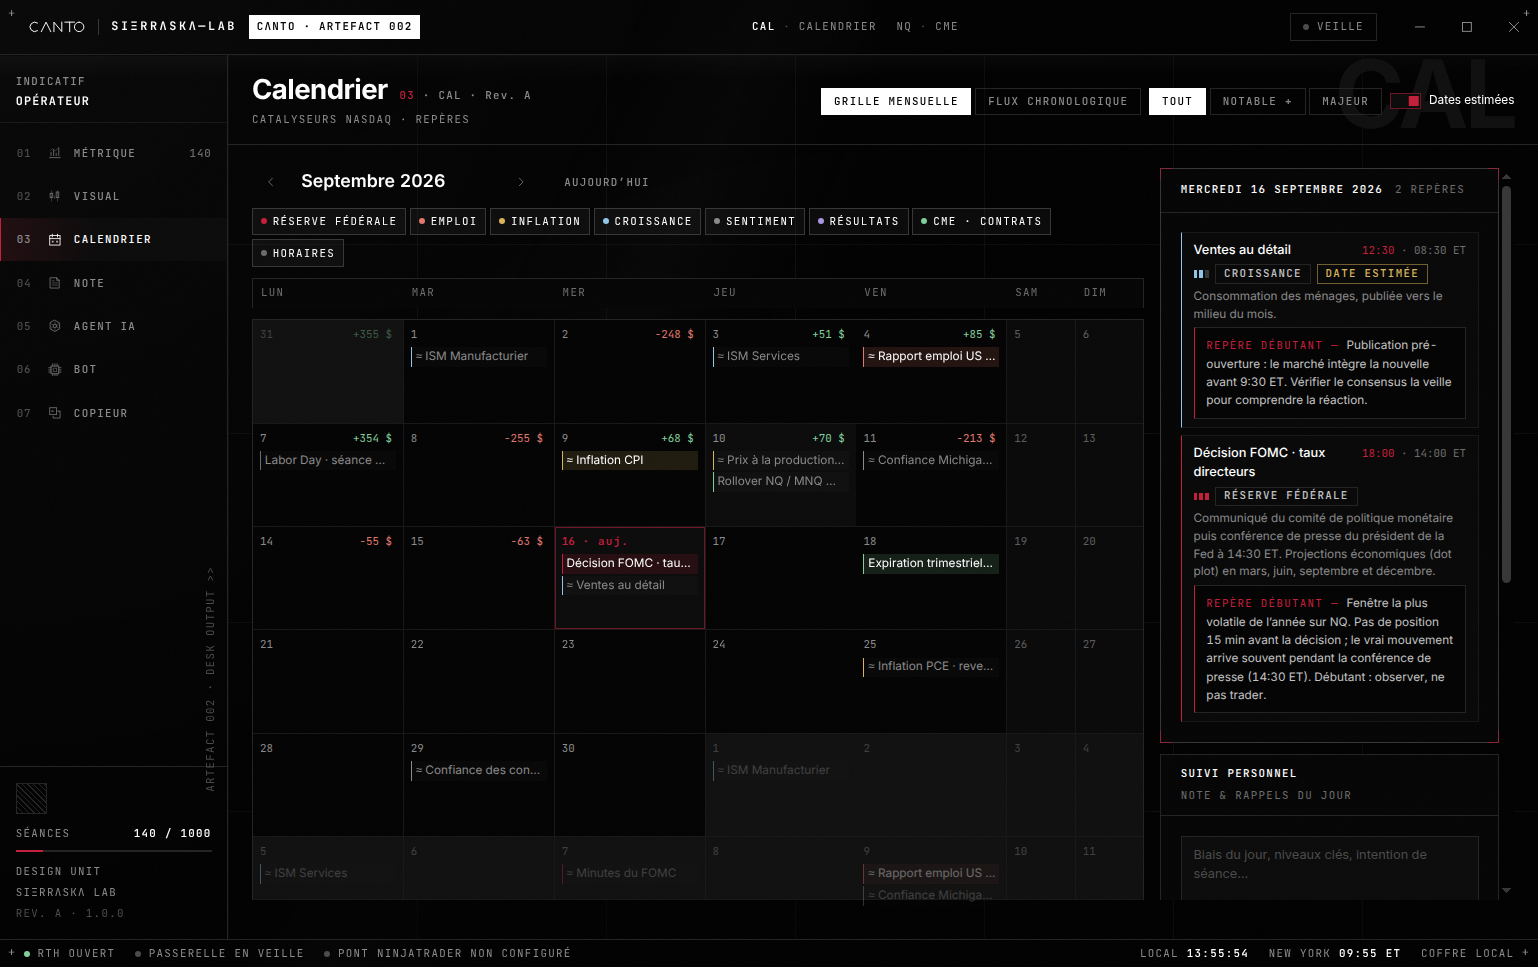
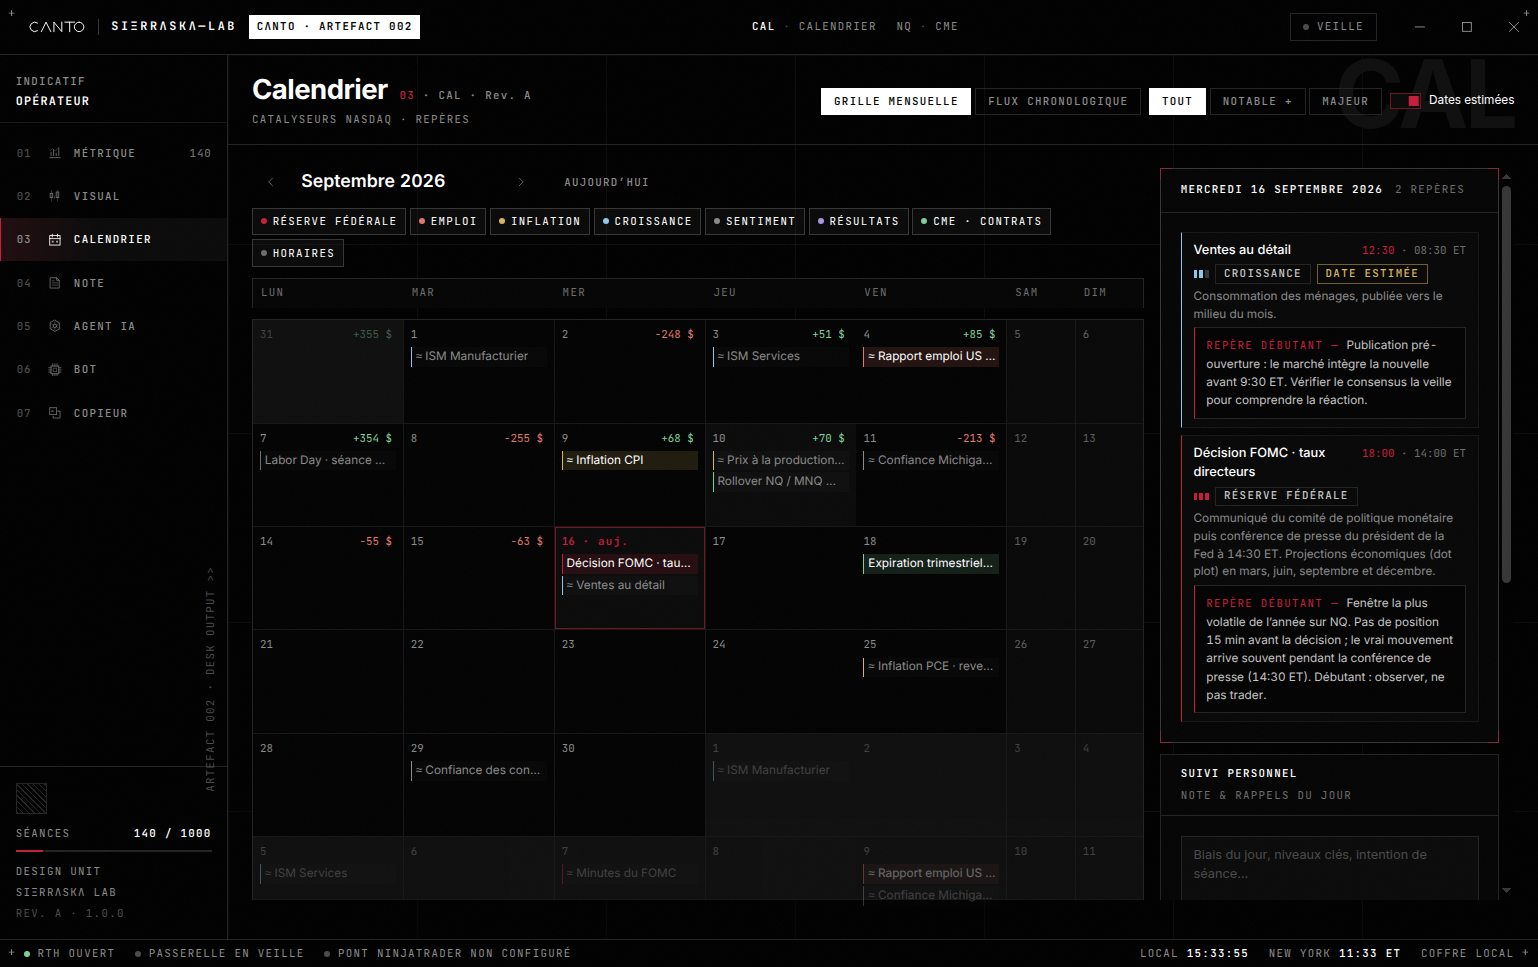
Fix thème gris/bleuté : noir absolu forcé (index.html + chrome), tokens découplés des polices, fonds shell explicites (#5)

diff --git a/src/app/shell.module.css b/src/app/shell.module.css
@@ -1,6 +1,9 @@
 .shell {
   position: relative;
   height: 100%;
+  background: #000000;
+  background-color: var(--bg-0, #000000);
+  color: var(--text-1, #c4c4c4);
   display: grid;
   grid-template-rows: var(--titlebar-h) 1fr var(--statusbar-h);
   grid-template-columns: var(--rail-w) 1fr;
@@ -132,6 +135,7 @@
   gap: var(--s-3);
   padding: 0 0 0 var(--s-6);
   /* left inset matches status; right handled by titleRight */
+  background: var(--bg-0, #000000);
   border-bottom: 1px solid var(--line-1);
   -webkit-app-region: drag;
   user-select: none;
@@ -199,7 +203,7 @@
   transition: color var(--t-med) linear, border-color 160ms linear;
 }
 .livePill.on {
-  background-image: radial-gradient(circle 48px at 12px 50%, rgba(196, 30, 58, 0.06), transparent);
+  /* LED = pastille seule ; pas de halo local (ambiance .lightWarm) */
 }
 .livePill.on::after {
   content: '';
@@ -252,6 +256,7 @@
   grid-area: rail;
   position: relative;
   z-index: 1;
+  background: var(--bg-0, #000000);
   border-right: 1px solid var(--line-1);
   display: flex;
   flex-direction: column;
@@ -410,6 +415,7 @@
   min-height: 0;
   display: flex;
   flex-direction: column;
+  background-color: var(--bg-0, #000000);
   background-image:
     repeating-linear-gradient(to right, color-mix(in srgb, var(--line-1) 35%, transparent) 0 1px, transparent 1px 96px),
     repeating-linear-gradient(to bottom, color-mix(in srgb, var(--line-1) 35%, transparent) 0 1px, transparent 1px 96px);
@@ -511,6 +517,7 @@
   grid-area: status;
   position: relative;
   z-index: 1;
+  background: var(--bg-0, #000000);
   border-top: 1px solid var(--line-1);
   display: flex;
   align-items: center;

diff --git a/index.html b/index.html
@@ -3,15 +3,31 @@
   <head>
     <meta charset="UTF-8" />
     <meta name="viewport" content="width=device-width, initial-scale=1.0" />
-    <meta name="color-scheme" content="dark" />
+    <meta name="color-scheme" content="dark only" />
+    <meta name="theme-color" content="#000000" />
     <meta http-equiv="Content-Security-Policy" content="default-src 'self'; script-src 'self'; style-src 'self' 'unsafe-inline'; img-src 'self' data: blob:; font-src 'self' data:; connect-src *; worker-src 'self' blob:; object-src 'none'; base-uri 'none'; form-action 'none'; frame-src 'none';" />
     <title>CΛNTO</title>
+    <!-- Fond critique avant le bundle : noir absolu Lab — jamais le bleu-gris prototype -->
     <style>
+      :root {
+        color-scheme: dark only;
+        --bg-void: #000000;
+        --bg-0: #000000;
+        --bg-1: #030303;
+        --bg-2: #050505;
+        --bg-3: #0b0b0b;
+        --text-0: #ffffff;
+        --text-1: #c4c4c4;
+        --gold: #c41e3a;
+      }
       html,
-      body {
-        background: #04050a;
+      body,
+      #root {
+        background: #000000 !important;
+        background-color: #000000 !important;
         margin: 0;
         height: 100%;
+        color: #c4c4c4;
       }
     </style>
   </head>

diff --git a/src/design/tokens.css b/src/design/tokens.css
@@ -1,12 +1,10 @@
-@import '@fontsource-variable/inter/index.css';
-@import '@fontsource-variable/jetbrains-mono/index.css';
-
 /* ------------------------------------------------------------------
    CΛNTO — artefact 002 · SIΞRRΛSKΛ Lab · v1.0
    Grammaire lithographique : noir absolu, hairlines 1 px, grille 4 px,
    une seule LED d'accent, aucun arrondi, aucune ombre hors halo LED,
    aucun dégradé décoratif. Précision de circuit — chaque mesure
    multiple de 4 px (filets 1–2 px exclus).
+   Polices chargées depuis src/main.tsx (ne jamais bloquer ce fichier).
    ------------------------------------------------------------------ */
 
 :root {
@@ -134,13 +132,15 @@ body,
 }
 
 body {
-  background: var(--bg-void);
-  color: var(--text-1);
+  background: #000000;
+  background-color: var(--bg-void, #000000);
+  color: var(--text-1, #c4c4c4);
   font-family: var(--font-ui);
   font-size: var(--fs-body);
   line-height: 1.5;
   overflow: hidden;
   font-variant-numeric: tabular-nums;
+  color-scheme: dark only;
 }
 
 ::selection {

diff --git a/src/app/boot.module.css b/src/app/boot.module.css
@@ -2,7 +2,8 @@
   position: fixed;
   inset: 0;
   z-index: 10000;
-  background: radial-gradient(circle at 0 0, rgba(255, 255, 255, 0.035) 0, transparent 55%), #000;
+  background: #000000;
+  background-image: radial-gradient(circle at 0 0, rgba(255, 255, 255, 0.035) 0, transparent 55%);
   display: grid;
   grid-template-rows: 1fr auto;
   align-items: center;

diff --git a/src/main.tsx b/src/main.tsx
@@ -1,5 +1,7 @@
 import { StrictMode } from 'react';
 import { createRoot } from 'react-dom/client';
+import '@fontsource-variable/inter/index.css';
+import '@fontsource-variable/jetbrains-mono/index.css';
 import '@/design/tokens.css';
 import { App, bootTimings } from '@/app/App';
 import { useAgent } from '@/store/agent';
